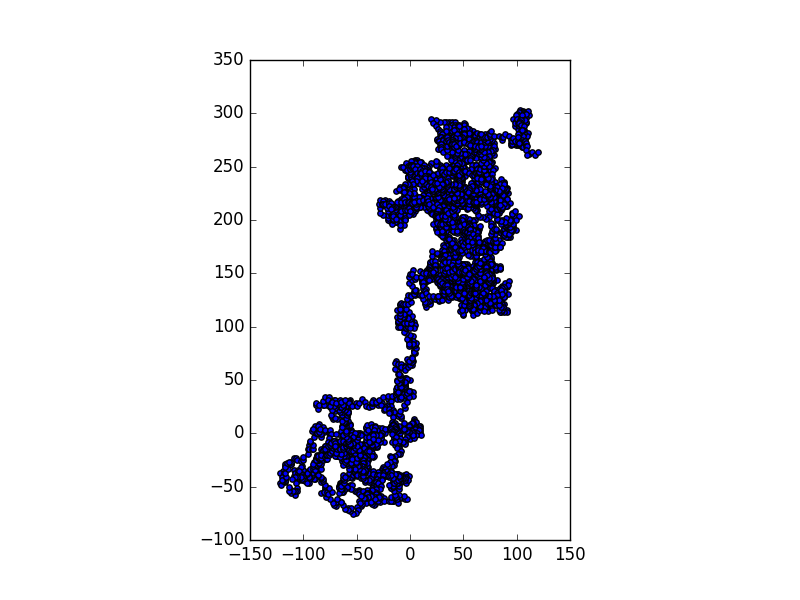
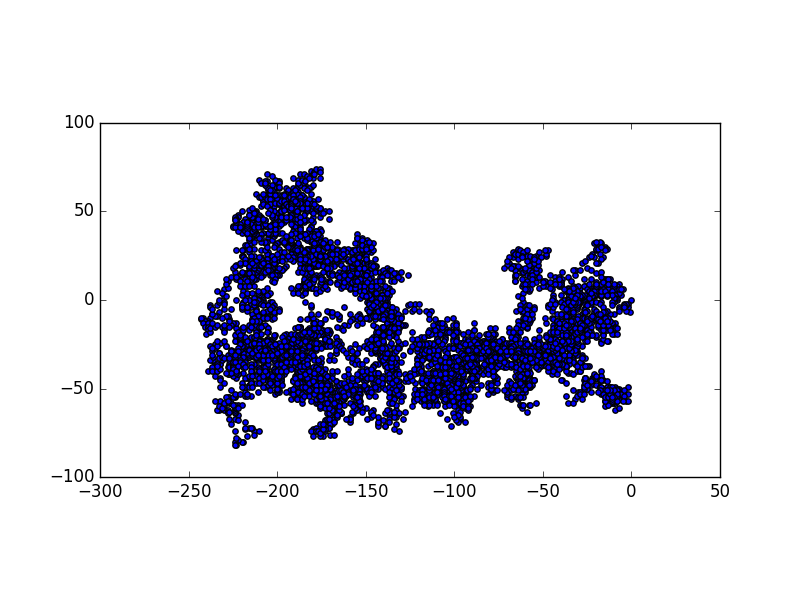
making multiple random walks

diff --git a/datascience/randomwalk/rw_visual.py b/datascience/randomwalk/rw_visual.py
@@ -5,19 +5,27 @@ import matplotlib.pyplot as plt
 from random_walk import RandomWalk
 
 
-#make a randomwalk
+while True:
 
-rw=RandomWalk()
-rw.fill_walk()
+    #make a randomwalk
 
-#plot the walk points
+    rw=RandomWalk()
+    rw.fill_walk()
 
-plt.style.use('classic')
+    #plot the walk points
 
-fig,ax=plt.subplots()
+    plt.style.use('classic')
 
-ax.scatter(rw.x_values,rw.y_values,s=15)
+    fig,ax=plt.subplots()
 
-ax.set_aspect('equal')
+    ax.scatter(rw.x_values,rw.y_values,s=15)
 
-plt.savefig("randomwalk.png")
+    ax.set_aspect('equal')
+
+    plt.savefig("randomwalk.png")
+
+
+    keep_running=input("make another walk? y/n:")
+    if keep_running == 'n':
+        break
+
